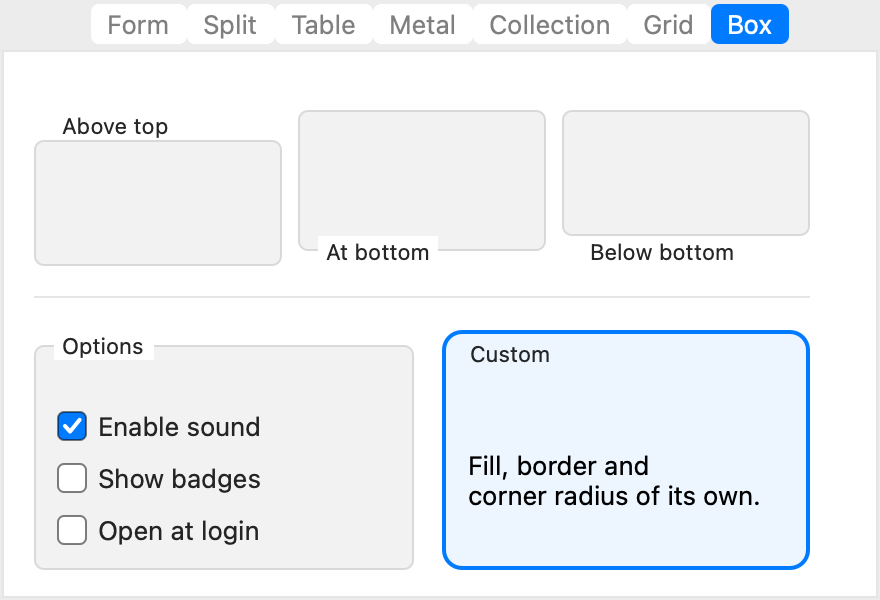
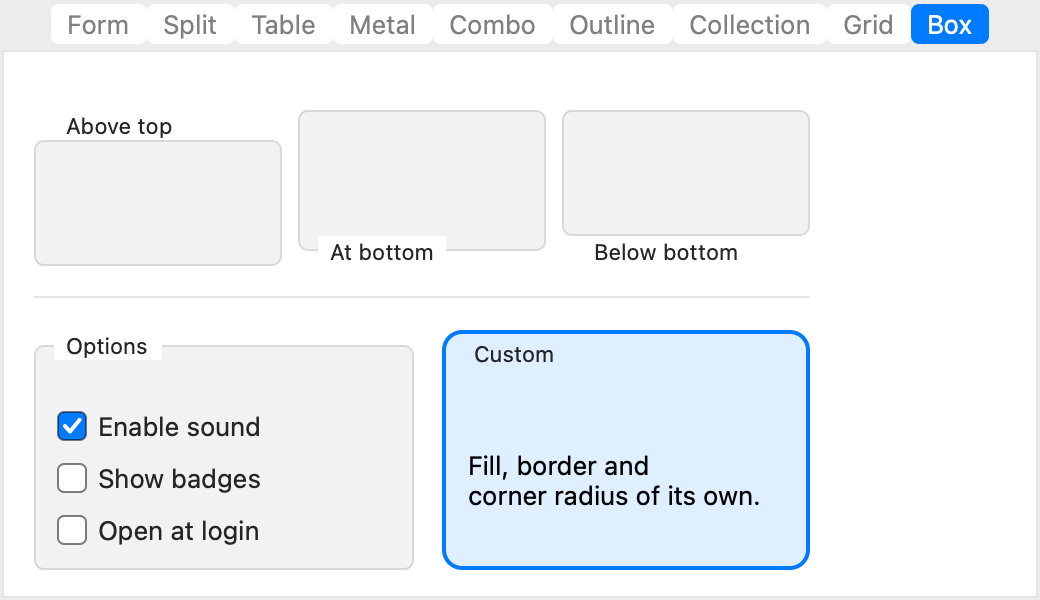
Layout Demo: header collapse button placed from the bounds, adaptive custom box fill, window wide enough for nine tabs
The header is made with a zero frame and sized by the collection view
afterwards, so an autoresizing mask moved its button off the right edge
on every platform; the custom box's fixed light fill hid label-coloured
text in a dark appearance.

diff --git a/Examples/HelloWindow/main.swift b/Examples/HelloWindow/main.swift
@@ -558,7 +558,7 @@ final class AppDelegate: NSObject, NSApplicationDelegate, NSWindowDelegate, NSSe
         tabs.addChild(CollectionDemoViewController())
         tabs.addChild(GridDemoViewController())
         tabs.addChild(BoxDemoViewController())
-        tabs.view.frame = NSRect(x: 0, y: 0, width: 440, height: 300)
+        tabs.view.frame = NSRect(x: 0, y: 0, width: 520, height: 300)   // wide enough for the nine tabs
         let window = NSWindow(contentViewController: tabs)
         window.title = "Layout Demo"
         if layerBacked { window.contentView?.wantsLayer = true }
@@ -1199,10 +1199,16 @@ final class CollectionDemoViewController: NSViewController, NSCollectionViewData
             let b = NSButton(title: "Hide", target: nil, action: Selector(("toggleSectionCollapse:")))
             b.controlSize = .small
             b.bezelStyle = .rounded
-            b.frame = NSRect(x: 300, y: 0, width: 60, height: 22)
-            b.autoresizingMask = [.minXMargin]
             addSubview(b)
             sectionCollapseButton = b
+            placeButton()
+        }
+        // The header is made with a zero frame and sized by the collection view afterwards,
+        // so the button is placed from the bounds rather than by an autoresizing mask.
+        private func placeButton() { sectionCollapseButton?.frame = NSRect(x: max(0, bounds.width - 66), y: 0, width: 60, height: 22) }
+        override func setFrameSize(_ newSize: NSSize) {
+            super.setFrameSize(newSize)
+            placeButton()
         }
         override func draw(_ dirtyRect: NSRect) {
             NSColor.windowBackgroundColor.setFill()
@@ -1393,7 +1399,7 @@ final class BoxDemoViewController: NSViewController {
         custom.boxType = .custom
         custom.title = "Custom"
         custom.titlePosition = .belowTop
-        custom.fillColor = NSColor(red: 0.93, green: 0.96, blue: 1, alpha: 1)
+        custom.fillColor = NSColor.controlAccentColor.withAlphaComponent(0.12)     // reads in light and dark appearances
         custom.borderColor = .systemBlue
         custom.borderWidth = 2
         custom.cornerRadius = 10
